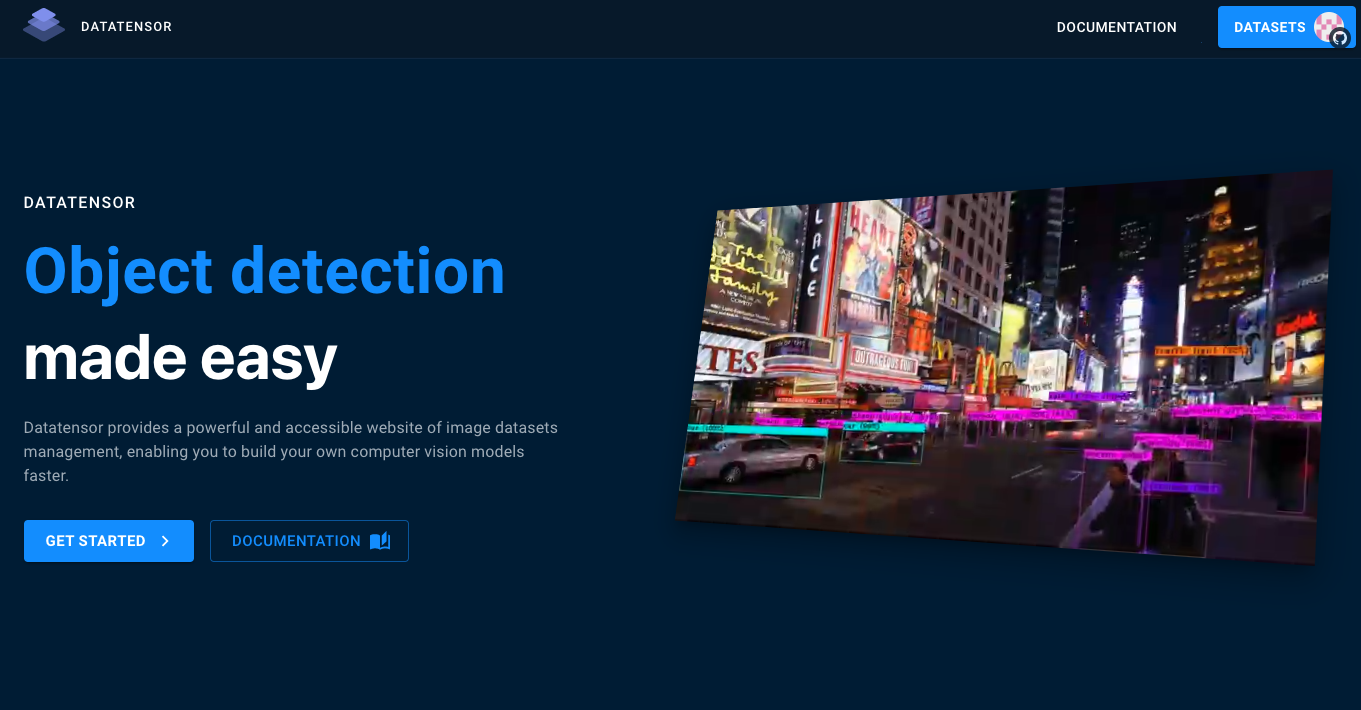
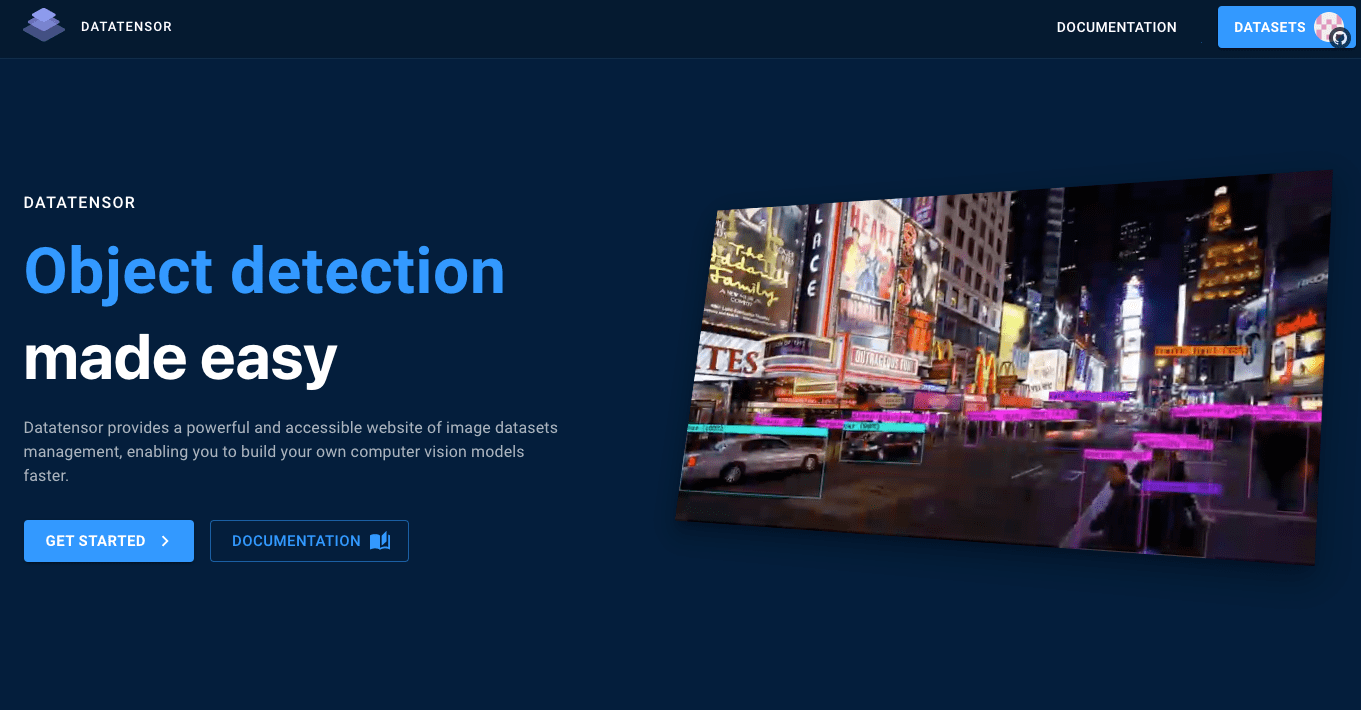
Smooth behavior test in production. compress images. remove projets 3D text

diff --git a/src/App.tsx b/src/App.tsx
@@ -1,9 +1,16 @@
-import React from 'react';
+import React, {useEffect} from 'react';
 import {BrowserRouter, Navigate, Route, Routes} from 'react-router-dom';
 import {ThemeProvider} from '@mui/material';
 import theme from 'src/theme';
-import {Projects} from 'src/components/sections';
 import Portfolio from 'src/views/Portfolio';
+
+const SmoothBehaviorTest = () => {
+    useEffect(() => {
+        (document.querySelector('.scroll-content') as HTMLElement).style.scrollBehavior = 'smooth';
+    }, []);
+
+    return null;
+};
 
 function App() {
     return (
@@ -16,7 +23,12 @@ function App() {
                     />
                     <Route
                         path="/developer"
-                        element={<Projects />}
+                        element={
+                            <>
+                                <Portfolio />
+                                <SmoothBehaviorTest />
+                            </>
+                        }
                     />
                     <Route
                         path="*"

diff --git a/src/components/sections/Projects/Projects.tsx b/src/components/sections/Projects/Projects.tsx
@@ -1,5 +1,17 @@
 import React, {FC, ReactNode} from 'react';
-import {Box, Button, Chip, Container, Link, Paper, Stack, SvgIcon, Tooltip, Typography} from '@mui/material';
+import {
+    Box,
+    Button,
+    Chip,
+    Container,
+    Link,
+    Paper,
+    Stack,
+    SvgIcon,
+    Tooltip,
+    Typography,
+    useMediaQuery
+} from '@mui/material';
 import ArrowRight from '@mui/icons-material/KeyboardArrowRight';
 
 interface Project {
@@ -77,6 +89,8 @@ const GithubIcon: FC = () => {
 };
 
 const Project: FC<{project: Project}> = ({project}) => {
+    const isDesktop = useMediaQuery((theme) => theme.breakpoints.up('sm'));
+
     return (
         <Paper
             sx={{
@@ -144,7 +158,7 @@ const Project: FC<{project: Project}> = ({project}) => {
             </Typography>
 
             <Stack
-                direction="row"
+                direction={isDesktop ? 'row' : 'column'}
                 spacing={2}
                 sx={{mt: 3}}
             >

diff --git a/src/components/Universe/Scene.ts b/src/components/Universe/Scene.ts
@@ -10,7 +10,6 @@ class Scene extends ThreeScene {
     model: GLTF;
     landscape: IntroLandscape;
     heroText: TextLoader;
-    projectsText: TextLoader;
 
     constructor() {
         super();
@@ -56,17 +55,6 @@ class Scene extends ThreeScene {
         heroText.position.z = -50;
 
         this.add(heroText);
-
-        const projectsText = new TextLoader('/static/images/projects-text.png');
-        this.projectsText = projectsText;
-
-        projectsText.ratio = 900 / 320;
-        projectsText.setHeight(10);
-        projectsText.position.y = 20;
-        projectsText.position.z = 0;
-        projectsText.rotation.x = Math.PI / 3;
-
-        this.add(projectsText);
     };
 
     addStar = (maxSize: number) => {

diff --git a/src/components/Universe/Engine.ts b/src/components/Universe/Engine.ts
@@ -44,7 +44,7 @@ class Engine {
         this.renderer.shadowMap.type = PCFSoftShadowMap;
         this.renderer.shadowMap.enabled = true;
 
-        this.renderer.setClearColor(0x0a1929);
+        this.renderer.setClearColor(0x000000);
         this.renderer.setPixelRatio(window.devicePixelRatio);
         this.renderer.setSize(window.innerWidth, window.innerHeight);
 

diff --git a/src/views/Portfolio.tsx b/src/views/Portfolio.tsx
@@ -45,7 +45,7 @@ function Portfolio() {
             <Universe />
 
             <Scrollbar
-                damping={0.08}
+                damping={0.1}
                 plugins={{
                     disableScroll: {direction: 'x'}
                 }}
